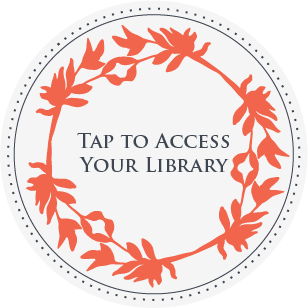
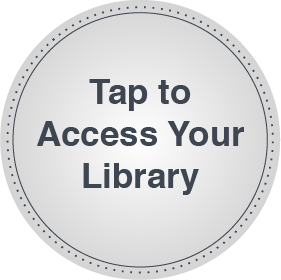
settle on animation and design

diff --git a/Approp/CanvasViewController.m b/Approp/CanvasViewController.m
@@ -53,10 +53,7 @@
     [[self.infoButton imageView] setContentMode:UIViewContentModeScaleAspectFit];
     [self.infoButton setBackgroundImage:[UIImage imageNamed:@"icon-info.png"] forState:UIControlStateNormal];
     
-    self.tapMeText.textColor = [UIColor colorWithRed:62.0/255.0 green:70.0/255.0 blue:81.0/255.0 alpha:1];
-    
-    self.tapMeContainer.backgroundColor = [UIColor clearColor];
-    [self animateTapMeImage:self.tapMeContainer];
+    [self animateTapMeImage:self.tapMeImage];
 }
 
     
@@ -73,15 +70,20 @@
     self.excludedActivityTypes = nil;
 }
 
-#pragma mark - Canvas Animations
-
 -(void)animateTapMeImage:(UIView *)view {
-    [UIView animateWithDuration:4.0 delay:0.0
-                        options:UIViewAnimationCurveEaseInOut
+    [UIView animateWithDuration:1.0
+                          delay:0.0
+                        options:UIViewAnimationCurveEaseInOut 
                      animations:(void (^)(void)) ^{
-                                self.tapMeContainer.transform=CGAffineTransformMakeScale(1.4, 1.4);
+                                self.tapMeImage.transform=CGAffineTransformMakeScale(1.2, 1.2);
     }
-                     completion:nil];
+                     completion:^(BOOL finished){
+                         [UIView animateWithDuration:2.0
+                                          animations:^(void) {
+                                              self.tapMeImage.transform=CGAffineTransformMakeScale(1.0, 1.0);
+                                          }];
+    
+                     }];
 }
 
 - (void)slideCanvas:(UITapGestureRecognizer*)tapGesture {

diff --git a/Approp/CanvasViewController.h b/Approp/CanvasViewController.h
@@ -37,8 +37,6 @@ UIImagePickerControllerDelegate>
 @property (nonatomic, copy) NSArray *excludedActivityTypes;
 @property (weak, nonatomic) IBOutlet UIImageView *patternView;
 @property (weak, nonatomic) IBOutlet UIImageView *tapMeImage;
-@property (weak, nonatomic) IBOutlet UILabel *tapMeText;
-@property (weak, nonatomic) IBOutlet UIView *tapMeContainer;
 
 - (IBAction)camera:(id)sender;
 - (IBAction)cameraRoll:(id)sender;
